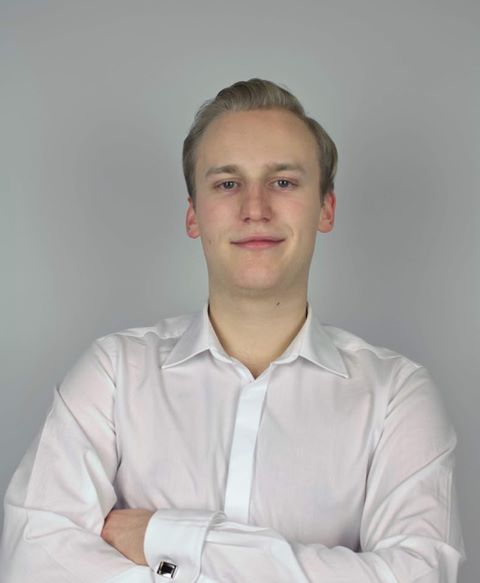
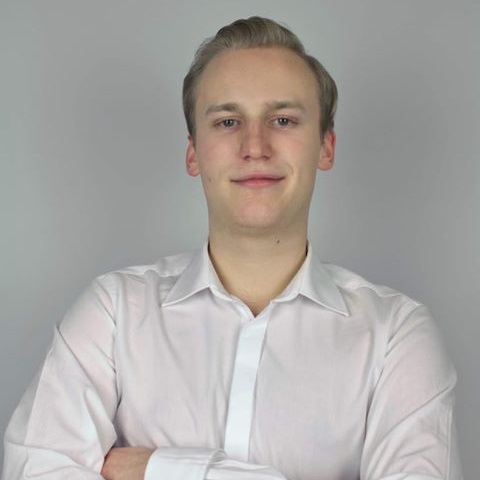
changed zdjecie prezesa

diff --git a/dist/index.HTML b/dist/index.HTML
@@ -143,6 +143,14 @@
             <img src ="../Images/Ikony/email.svg" class="meet_us_envelope"></img>
           </div>
           <div class="meet_us_person">
+            <img src="../Images/Poznaj nas/51979917_2308079306182711_3860559185397678080_n.jpg" alt="handsome man jpg" class="meet_us_img_bottom" />
+            
+            <p class="meet_us_text1">Michał Trzpis</p>
+            <p class="meet_us_text2">Prezes</p>
+            <img src="../Images/Ikony/messanger.svg" class="meet_us_messenger"></img>
+            <img src ="../Images/Ikony/email.svg" class="meet_us_envelope"></img>
+          </div>
+          <div class="meet_us_person">
             <img src="../Images/Poznaj nas/IMG_8338.jpeg" alt="handsome man jpg" class="meet_us_img_bottom" />
             
             <p class="meet_us_text1">Michał Trzpis</p>
@@ -151,15 +159,7 @@
             <img src ="../Images/Ikony/email.svg" class="meet_us_envelope"></img>
           </div>
           <div class="meet_us_person">
-            <img src="../Images/Poznaj nas/IMG_8805.jpeg" alt="handsome man jpg" class="meet_us_img_bottom" />
-            
-            <p class="meet_us_text1">Michał Trzpis</p>
-            <p class="meet_us_text2">Prezes</p>
-            <img src="../Images/Ikony/messanger.svg" class="meet_us_messenger"></img>
-            <img src ="../Images/Ikony/email.svg" class="meet_us_envelope"></img>
-          </div>
-          <div class="meet_us_person">
-            <img src="../Images/Poznaj nas//IMG_8832.jpeg" alt="handsome man jpg" class="meet_us_img_bottom" />
+            <img src="../Images/Poznaj nas/IMG_8832.jpeg" alt="handsome man jpg" class="meet_us_img_bottom" />
             
             <p class="meet_us_text1">Michał Trzpis</p>
             <p class="meet_us_text2">Prezes</p>
